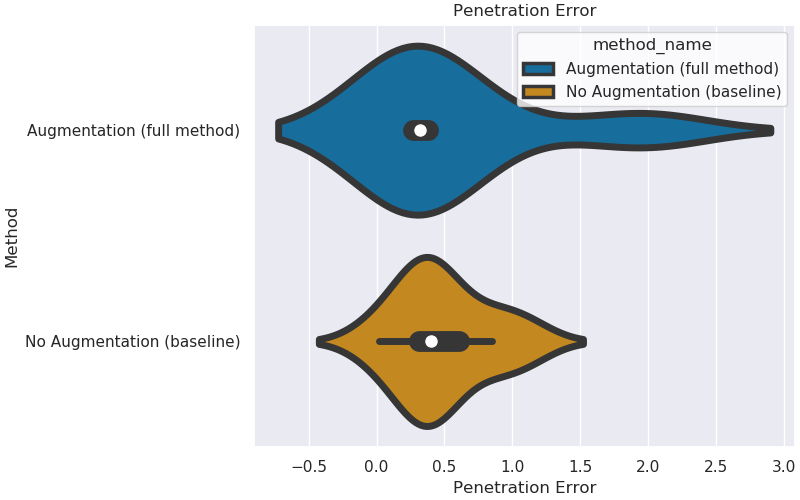
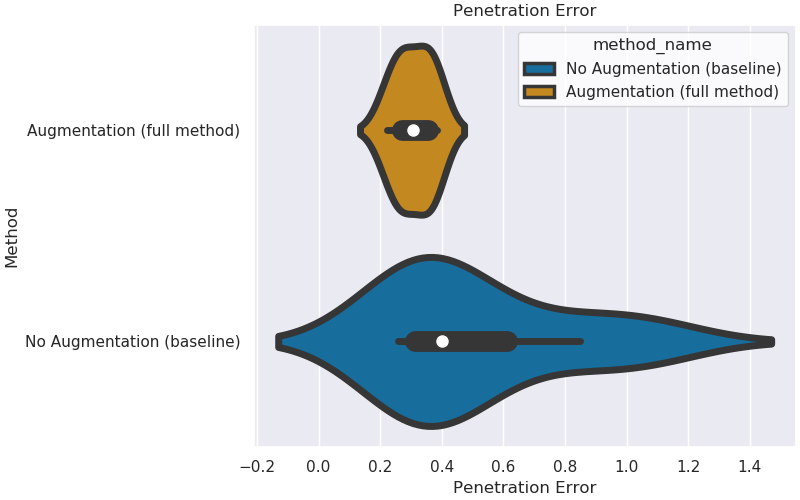
eval versions, bigger val set doesn't help

diff --git a/analysis/scripts/propnet_aug_plots.py b/analysis/scripts/propnet_aug_plots.py
@@ -16,17 +16,18 @@ def main():
     df = wandb_to_df()
     m = 'method_name'
     method_name_map = {
-        '/media/shared/fwd_model_data/h50-60+vel+aug-25-1638056556': 'Augmentation (full method)',
-        '/media/shared/fwd_model_data/h50-60+vel':                   'No Augmentation (baseline)',
-        # '/media/shared/fwd_model_data/h50-60+vel+aug-25-simple-noise1': 'Gaussian Noise (baseline)',
-        # '/media/shared/fwd_model_data/h50-60+vel+aug-25-1643907565+vae': 'VAE (baseline)',
+        '/media/shared/fwd_model_data/h50-60+vel+aug-25-1638056556':     'Augmentation (full method)',
+        '/media/shared/fwd_model_data/h50-60+vel':                       'No Augmentation (baseline)',
+        '/media/shared/fwd_model_data/h50-60+vel+aug-25-simple-noise1':  'Gaussian Noise (baseline)',
+        '/media/shared/fwd_model_data/h50-60+vel+aug-25-1643907565+vae': 'VAE (baseline)',
     }
     df = df.loc[df['dataset_dir'].isin(method_name_map.keys())]
     metric_name = 'mean_error_pos'
     df = df.loc[df[metric_name] != None]
+    df = df.loc[df['penetration'] != None]
     df = df.loc[df['scenario'] == 'cylinders']
     df = df.loc[df['tags'].apply(lambda l: 'eval' in l and 'odd' not in l and 'bad' not in l)]
-    df[m] = df['eval_dataset'].map(method_name_map)
+    df[m] = df['dataset_dir'].map(method_name_map)
     df[metric_name] = df[metric_name].astype(np.float32)
 
     print_metrics(df, method_name_map, metric_name)
@@ -35,42 +36,41 @@ def main():
     plt.rcParams['figure.figsize'] = (8, 5)
     sns.set(rc={'figure.figsize': (8, 5)})
 
+    ax = make_figure(df, m, method_name_map, metric_name)
+    ax.set_ylabel("Method")
+    ax.set_xlabel("Position Error")
+    ax.set_title("Position Error")
+    plt.savefig("propnet_aug_mean_error_pos.png")
+
+    ax = make_figure(df, m, method_name_map, 'penetration')
+    ax.set_ylabel("Method")
+    ax.set_xlabel("Penetration Error")
+    ax.set_title("Penetration")
+    plt.savefig("propnet_aug_penetration.png")
+
+    plt.show()
+
+
+def make_figure(df, m, method_name_map, metric_name):
+    plt.figure()
     ax = sns.violinplot(data=df,
                         y=m,
                         x=metric_name,
                         hue=m,
                         palette='colorblind',
                         ci=95,
+                        inner='point',
                         orient='h',
                         order=list(method_name_map.values()),
                         linewidth=5,
                         dodge=False)
-    ax.set_ylabel("Method")
-    ax.set_xlabel("Position Error (meters)")
-    ax.set_title("Position Error")
     ax.ticklabel_format(axis='x', style='sci', scilimits=[-3, 3])
-    plt.savefig("propnet_aug_mean_error_pos.png")
-
-    ax = sns.violinplot(data=df,
-                        y=m,
-                        x='penetration',
-                        hue=m,
-                        palette='colorblind',
-                        ci=95,
-                        orient='h',
-                        order=list(method_name_map.values()),
-                        linewidth=5,
-                        dodge=False)
-    ax.set_ylabel("Method")
-    ax.set_xlabel("Penetration Error")
-    ax.set_title("Penetration Error")
-    ax.ticklabel_format(axis='x', style='sci', scilimits=[-3, 3])
-    plt.savefig("propnet_aug_mean_error_penetration.png")
-    plt.show()
+    return ax
 
 
 def print_metrics(df, method_name_map, metric_name):
     print()
+    print(metric_name)
     print()
     mpe_dict = {}
 

diff --git a/propnet/src/propnet/train_test_propnet.py b/propnet/src/propnet/train_test_propnet.py
@@ -195,6 +195,46 @@ def eval_main(dataset_dir: pathlib.Path,
     return metrics
 
 
+def eval_versions_main(dataset_dir: pathlib.Path,
+                       checkpoint: str,
+                       versions_str: str,
+                       mode: str,
+                       batch_size: int,
+                       user: str,
+                       take: Optional[int] = None,
+                       skip: Optional[int] = None,
+                       project=PROJECT,
+                       **kwargs):
+    eval_versions = eval(versions_str.strip("'\""))
+    trainer = pl.Trainer(gpus=1, enable_model_summary=False)
+    dataset = TorchDynamicsDataset(dataset_dir, mode)
+    dataset = take_subset(dataset, take)
+    dataset = dataset_skip(dataset, skip)
+    loader = DataLoader(dataset, collate_fn=my_collate, num_workers=get_num_workers(batch_size))
+    metrics_over_time = {}
+    for version in eval_versions:
+        metrics = eval_version(trainer, loader, checkpoint, project, user, version)
+        for k, v in metrics.items():
+            if k not in metrics_over_time:
+                metrics_over_time[k] = []
+            metrics_over_time[k].append(v)
+
+    import matplotlib.pyplot as plt
+    for k, v in metrics_over_time.items():
+        plt.figure()
+        plt.plot(eval_versions, v)
+        plt.ylabel(k)
+
+    plt.show()
+
+
+def eval_version(trainer, loader, checkpoint, project, user, version):
+    model = load_model_artifact(checkpoint, PropNet, project, f"v{version}", user=user)
+    metrics = trainer.validate(model, loader, verbose=False)
+    metrics0 = metrics[0]
+    return metrics0
+
+
 def viz_main(dataset_dir: pathlib.Path,
              checkpoint,
              mode: str,

diff --git a/propnet/scripts/train_test_propnet.py b/propnet/scripts/train_test_propnet.py
@@ -8,8 +8,8 @@ import torch
 
 from arc_utilities import ros_init
 from link_bot_pycommon.args import run_subparsers
-from propnet import train_test_propnet
 from moonshine.magic import wandb_lightning_magic
+from propnet import train_test_propnet
 
 
 def train_main(args):
@@ -21,6 +21,10 @@ def train_main(args):
 
 def eval_main(args):
     train_test_propnet.eval_main(**vars(args))
+
+
+def eval_versions_main(args):
+    train_test_propnet.eval_versions_main(**vars(args))
 
 
 def viz_main(args):
@@ -69,6 +73,16 @@ def main():
     eval_parser.add_argument('--user', '-u', type=str, default='armlab')
     eval_parser.add_argument('--take', type=int)
     eval_parser.set_defaults(func=eval_main)
+
+    eval_versions_parser = subparsers.add_parser('eval_versions')
+    eval_versions_parser.add_argument('dataset_dir', type=pathlib.Path)
+    eval_versions_parser.add_argument('checkpoint')
+    eval_versions_parser.add_argument('versions_str', help='python string defining the versions, ex: [0,1]')
+    eval_versions_parser.add_argument('--mode', type=str, choices=['train', 'test', 'val', 'all'], default='val')
+    eval_versions_parser.add_argument('--batch-size', type=int, default=24)
+    eval_versions_parser.add_argument('--user', '-u', type=str, default='armlab')
+    eval_versions_parser.add_argument('--take', type=int)
+    eval_versions_parser.set_defaults(func=eval_versions_main)
 
     wandb_lightning_magic()
 

diff --git a/dm_envs/src/dm_envs/cylinders_scenario.py b/dm_envs/src/dm_envs/cylinders_scenario.py
@@ -233,14 +233,14 @@ class CylindersScenario(PlanarPushingScenario):
                 if pos is not None:
                     obj_marker = make_cylinder_marker(color_msg, height, next(ig), ns, pos, radius)
                     msg.markers.append(obj_marker)
-                if pos is not None and vel is not None:
-                    if np.linalg.norm(vel) < 1e-4:
-                        # move it out of the view by moving it way up
-                        up = np.array([0, 0, 10])
-                        obj_vel_marker = make_vel_arrow(pos + up, vel, height, color_msg, next(ig), ns)
-                    else:
-                        obj_vel_marker = make_vel_arrow(pos, vel, height, color_msg, next(ig), ns)
-                    msg.markers.append(obj_vel_marker)
+                # if pos is not None and vel is not None:
+                #     if np.linalg.norm(vel) < 1e-4:
+                #         # move it out of the view by moving it way up
+                #         up = np.array([0, 0, 10])
+                #         obj_vel_marker = make_vel_arrow(pos + up, vel, height, color_msg, next(ig), ns)
+                #     else:
+                #         obj_vel_marker = make_vel_arrow(pos, vel, height, color_msg, next(ig), ns)
+                #     msg.markers.append(obj_vel_marker)
 
         self.state_viz_pub.publish(msg)
 
